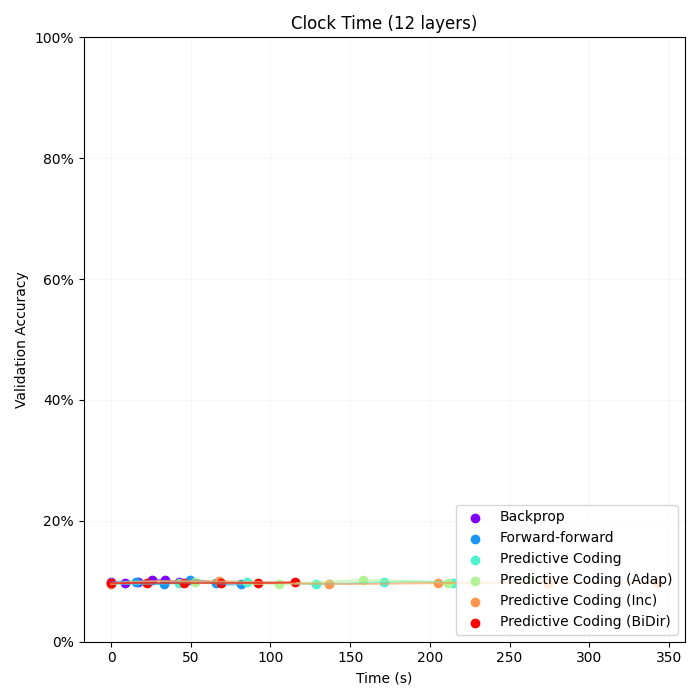
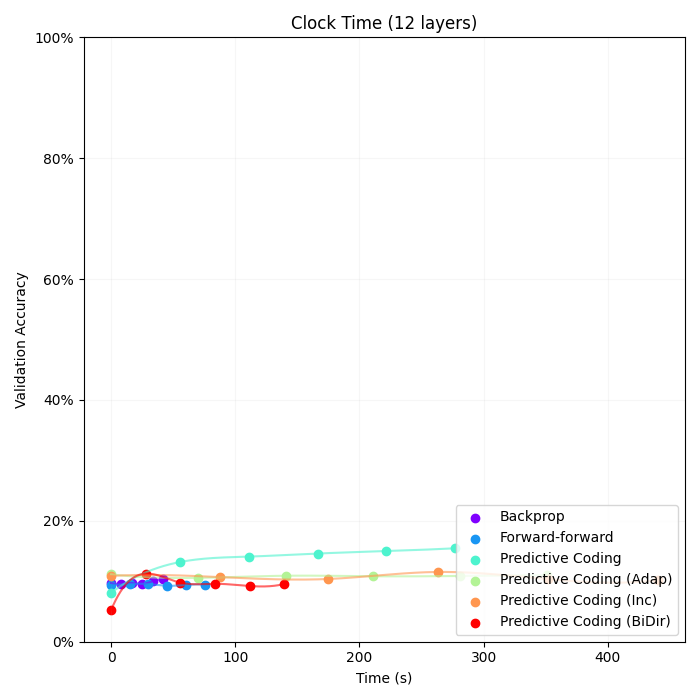
adding partial laplacian renormalization implementation

diff --git a/backprop_alts/utils.py b/backprop_alts/utils.py
@@ -16,33 +16,34 @@ def losses_to_running_loss(losses, alpha = 0.95):
         running_losses.append(running_loss)
     return running_losses
 
+@torch.no_grad()
 def conjucate_gradient(A, b, x, n_iters = 10):
     """
     Simple conjucate gradient solver for 
     min_x ||Ax - b||_2
     """
-    with torch.no_grad():
-        r = b - A @ x
+    r = b - A @ x
+    g = A.T @ r
+    for i in range(n_iters):
+        if torch.norm(g) < 1e-8:
+            break
+        if i == 0:
+            p = g.clone()
+        else:
+            beta = (torch.linalg.vector_norm(g) / torch.linalg.vector_norm(g_old))
+            p = g + (beta ** 2) * p
+
+        step = (A @ p)
+        alpha = (torch.linalg.vector_norm(g) / torch.linalg.vector_norm(step)) ** 2
+
+        x = x + alpha * p
+        r = r - alpha * (A @ p)
+        
+        g_old = g.clone()
         g = A.T @ r
-        for i in range(n_iters):
-            if torch.norm(g) < 1e-8:
-                break
-            if i == 0:
-                p = g.clone()
-            else:
-                beta = (torch.linalg.vector_norm(g) / torch.linalg.vector_norm(g_old))
-                p = g + (beta ** 2) * p
-
-            step = (A @ p)
-            alpha = (torch.linalg.vector_norm(g) / torch.linalg.vector_norm(step)) ** 2
-
-            x = x + alpha * p
-            r = r - alpha * (A @ p)
-            
-            g_old = g.clone()
-            g = A.T @ r
     return x
 
+@torch.no_grad()
 def get_graph_hierarcy(adjacency,
                        n_iters = 10):
     """
@@ -84,6 +85,7 @@ def get_graph_hierarcy(adjacency,
     avg_hierarchy = (forward_levels - backward_levels) / 2
     return avg_hierarchy, forward_levels, backward_levels
 
+@torch.no_grad()
 def hierarchical_difference(hierarchy_vector):
     """
     Gets the hierarchical difference matrix from the paper.
@@ -96,6 +98,7 @@ def hierarchical_difference(hierarchy_vector):
     diff = hierarchy_vector - vector_copy
     return diff
 
+@torch.no_grad()
 def democracy_coefficents(adjacency):
     """
     Democracy coefficients from the paper.
@@ -112,6 +115,53 @@ def democracy_coefficents(adjacency):
     mean_bhd = (adjacency * backward_diff).sum() / adjacency.sum()
 
     return 1 - mean_fhd, 1 - mean_bhd
+
+@torch.no_grad()
+def laplacian_renormalization(t, adjacency, use_out_degree = True):
+    """
+    Implementation of Laplacian renormalization from this paper:
+    https://www.nature.com/articles/s41567-022-01866-8
+
+    Parameters
+    ----------
+    t : float
+        Time parameter.
+    adjacency : torch.Tensor
+        Adjacency matrix of graph.
+    use_out_degree : bool
+        Whether to use out-degree in the Laplacian (false uses in-degree).
+    """
+    axis = int(use_out_degree)
+    L = torch.diag(adjacency.sum(dim = axis)) - adjacency
+    e, v = torch.linalg.eig(L)
+
+    # note since graph laplacian is positive semi-definite, we can
+    # use the real part of the eigenvalues wlog
+    e = e.real
+
+    # get the propagator/density matrix
+    propagator = torch.diag(torch.exp(-t * e))
+    trace = propagator.sum()
+    propagator = propagator.to(torch.complex64)
+    propagator = v @ propagator @ v.H
+    propagator = propagator.real / trace
+
+    lambda_star = 1 / t
+    mask = (e > lambda_star)
+    n = mask.sum().item()
+    N = len(e)
+
+    if n < 1:
+        raise ValueError(f"Laplacian renormalization failed with t = {t}")
+
+    e_subset, v_subset = e[mask], v[:, mask]
+    reduced_laplacian = torch.einsum("ij,j,jk->ik", v_subset, e_subset, v_subset.H).real
+
+    # trickiest step, go through the propagator and aggregate nodes
+    clusters = []
+    while len(clusters) < n:
+        pass #TODO
+
 
 def _prepare_for_epochs():
     transform = transforms.Compose([transforms.ToTensor(),
@@ -532,6 +582,14 @@ class ActorPerciever(torch.nn.Module):
 #TODO : synthetic gradient
 #TODO : rtrl would be cool
 if __name__ == "__main__":
+
+    adjacency = torch.Tensor([[1, 2, 1],
+                              [3, 1, 1],
+                              [0, -1, 1],])
+    adj2 = torch.randint(0, 2, (10, 10)).float()
+    laplacian_renormalization(0.3, adj2)
+
+
     from itertools import chain
     n_steps = 100000
     bptt_steps = 100

diff --git a/backprop_alts/predictive_coding.py b/backprop_alts/predictive_coding.py
@@ -119,14 +119,15 @@ class BDPredictiveCoder(torch.nn.Module):
         self.n_layers = n_layers
 
         self.layers = torch.nn.ModuleList()
+        prev_dim = in_dim
         for i in range(n_layers - 1):
             dim_mult = self.dim_mult[i]
-            self.layers.append(BDPredictiveBlock(in_dim, 
+            self.layers.append(BDPredictiveBlock(prev_dim, 
                                                  int(in_dim * dim_mult),
                                                  activation = activation,
                                                  bias = bias))
-            in_dim = int(in_dim * dim_mult)
-        self.layers.append(BDPredictiveBlock(in_dim, 
+            prev_dim = int(in_dim * dim_mult)
+        self.layers.append(BDPredictiveBlock(prev_dim, 
                                              out_dim,
                                              activation = activation,
                                              bias = bias))
@@ -315,7 +316,9 @@ class BDLNet(torch.nn.Module):
         super().__init__()
         self.layers = torch.nn.ModuleList()
 
-        dims = [in_dim] + [int(in_dim * (dim_mult ** i)) for i in range(n_layers - 1)] + [out_dim]
+        if isinstance(dim_mult, (int, float)):
+            dim_mult = [dim_mult] * (n_layers - 1)
+        dims = [in_dim] + [int(in_dim * dim_mult[i]) for i in range(n_layers - 1)] + [out_dim]
 
         for i in range(n_layers - 1):
             self.layers.append(BDLBlock(dims[i],
@@ -403,14 +406,15 @@ class PCNet(torch.nn.Module):
         self.equilibration_lr = equilibration_lr
 
         self.layers = torch.nn.ModuleList()
+        prev_dim = in_dim
         for i in range(n_layers - 1):
             dim_mult = self.dim_mult[i]
-            self.layers.append(torch.nn.Linear(in_dim,
+            self.layers.append(torch.nn.Linear(prev_dim,
                                                int(in_dim * dim_mult),
                                                bias = False))
-            in_dim = int(in_dim * dim_mult)
+            prev_dim = int(in_dim * dim_mult)
 
-        self.layers.append(torch.nn.Linear(in_dim, out_dim, bias = False))
+        self.layers.append(torch.nn.Linear(prev_dim, out_dim, bias = False))
         
         self.activation, self.activation_derivative = self._init_activation(activation)
 
@@ -563,7 +567,6 @@ if __name__ == "__main__":
     adaptive_relax = False
     ipc = False
     lr = 0.001
-
 
     device = torch.device("cuda" if torch.cuda.is_available() else "cpu")
 

diff --git a/backprop_alts/forwardforward.py b/backprop_alts/forwardforward.py
@@ -52,6 +52,8 @@ class FFNet(torch.nn.Module):
         super().__init__()
         self.in_dim = in_dim
         self.n_layers = n_layers
+        if isinstance(dim_mult, (int, float)):
+            dim_mult = [dim_mult] * (n_layers - 1)
         self.dim_mult = dim_mult
         if out_dim is None:
             out_dim = in_dim
@@ -61,17 +63,29 @@ class FFNet(torch.nn.Module):
         self.theta = theta
         self.n_labels = n_labels
 
-        dim = int(in_dim * dim_mult)
+        dim = int(in_dim * self.dim_mult[0])
         self.layers = torch.nn.ModuleList()
-        self.layers.append(FFBlock(in_dim + n_labels, dim, activation = activation, theta = theta, bias = bias))
-        in_dim = dim
+        self.layers.append(FFBlock(in_dim + n_labels,
+                                   dim,
+                                   activation = activation,
+                                   theta = theta,
+                                   bias = bias))
+        prev_dim = dim
 
         for i in range(n_layers - 2):
-            dim = int(dim * dim_mult)
-            self.layers.append(FFBlock(in_dim, dim, activation = activation, theta = theta, bias = bias))
-            in_dim = dim
+            dim = int(in_dim * dim_mult[i + 1])
+            self.layers.append(FFBlock(prev_dim,
+                                       dim,
+                                       activation = activation,
+                                       theta = theta,
+                                       bias = bias))
+            prev_dim = dim
         
-        self.layers.append(FFBlock(dim, out_dim, activation = activation, theta = theta, bias = bias))
+        self.layers.append(FFBlock(prev_dim,
+                                   out_dim,
+                                   activation = activation,
+                                   theta = theta,
+                                   bias = bias))
 
     def forward(self, x, return_energy = False):
         if return_energy:

diff --git a/compare.py b/compare.py
@@ -203,9 +203,11 @@ def pretty_plot(x_data,
     plt.savefig(f"plots/{plot_title}.png")
     plt.close()
 
-#TODO : this is non-ideal with deep networks
-#TODO : we want final_layer > out_dim
-def get_mults(n_layers, in_dim, out_dim, total_neurons):
+def get_mults(n_layers,
+              in_dim,
+              out_dim,
+              total_neurons,
+              merge_decay = 0.75):
     """
     Get the multipliers for each layer to hit the total number of neurons.
     """
@@ -213,28 +215,22 @@ def get_mults(n_layers, in_dim, out_dim, total_neurons):
         n_layers = [n_layers]
     mults = []
     ratio = (total_neurons - out_dim) / in_dim
-    # note ratio = (mult + mult**2 + mult**3 + ... + mult**n_layers) = total_neurons / in_dim
     for n_layers_i in n_layers:
-        p = [1] * (n_layers_i - 1) + [-ratio]
-        mults_i = np.roots(p)
-        # get real root less than 2
-        mults_i = [mult.real for mult in mults_i if 0 < mult.real < 2]
-        if len(mults_i) == 0:
-            raise ValueError(f"Cannot hit {total_neurons} neurons with {n_layers_i} layers")
-        mults.append(min(mults_i))
-        # check that neuron number at final layer is greater than out_dim
-        final_layer = int(mults[-1] ** (n_layers_i - 1) * in_dim)
-        if final_layer < out_dim:
-            raise ValueError(f"Cannot hit {total_neurons} neurons with {n_layers_i} layers")
+        probs = np.array([merge_decay ** i for i in range(1, n_layers_i)])
+        probs = probs / np.sum(probs)
+ 
+        mult = list(ratio * probs)
+        mults.append(mult)
+
     return mults
 
 if __name__ == "__main__":
     n_epochs = 5
-    n_layers = [3, 5, 7]
+    n_layers = [12]
     in_dim = 784
     out_dim = 10
     # try to hit this number of neurons for comparability with different layer numbers
-    total_neurons = 1500
+    total_neurons = 1000
     mults = get_mults(n_layers, in_dim, out_dim, total_neurons)
 
     all_scores = mnist_comparisons(n_epochs,

diff --git a/README.md b/README.md
@@ -92,3 +92,10 @@ This implements the forward-forward algorithm by Hinton, based on his [Matlab so
 The forward-forward algorithm is essentially a contrastive learning framework. In the image + label case, images are concatenated to their labels (since the learning method is not supervised, so concatenation learns the joint distribution in an unsupervised way). Next, a negative sample is generated by utilizing the same image, but concatenating a random label. The network is then trained to modify its weights by minimizing (maximizing) an energy function for the negative (positive) samples using a layer-local gradient update.
 
 Unlike the original/official implementation, I do not force images to be binary, pixel values are treated as continuous numbers.
+
+# Other Notes
+
+I've also implemented some interesting papers with graph theoretic tools that I thought might help analyze the backprop alternatives. A potentially incomplete list:
+
+* Various graph/network hierarchy measures which give indicators of the hierarchy in a graph based on directed information flow, from [this paper](https://www.nature.com/articles/s41598-021-93161-4).
+* [Laplacian renormalization](https://www.nature.com/articles/s41567-022-01866-8), a recent graph theoretic analogue to renormalization methods in statistical mechanics. In particular, this enables scaling networks while preserving certain key properties.
